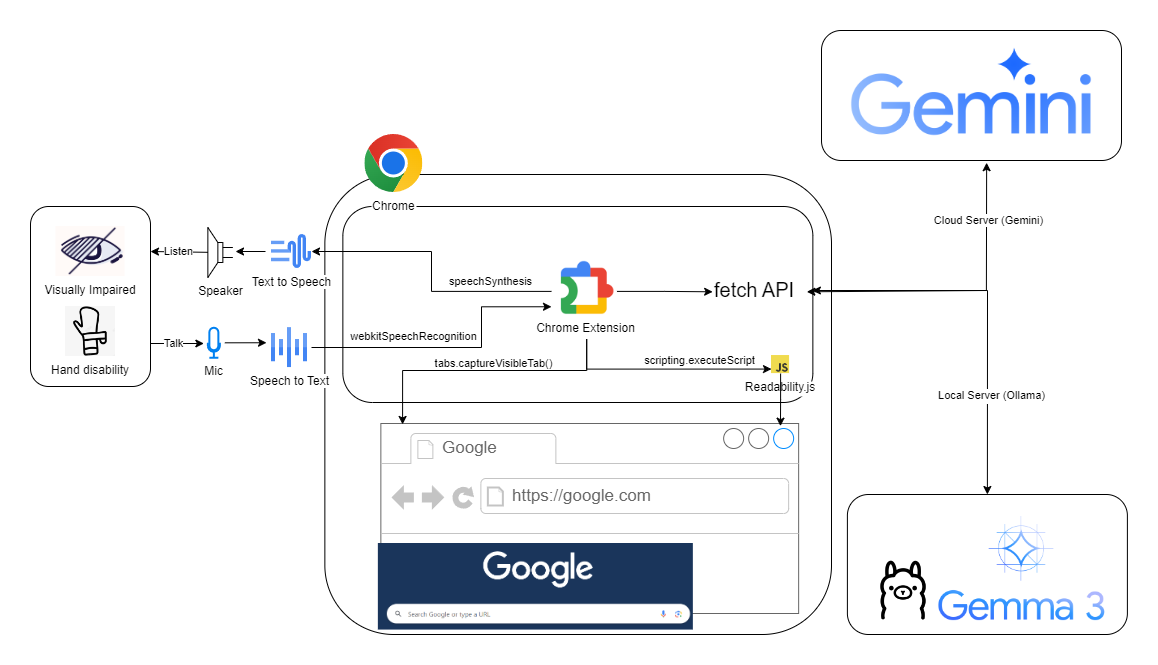
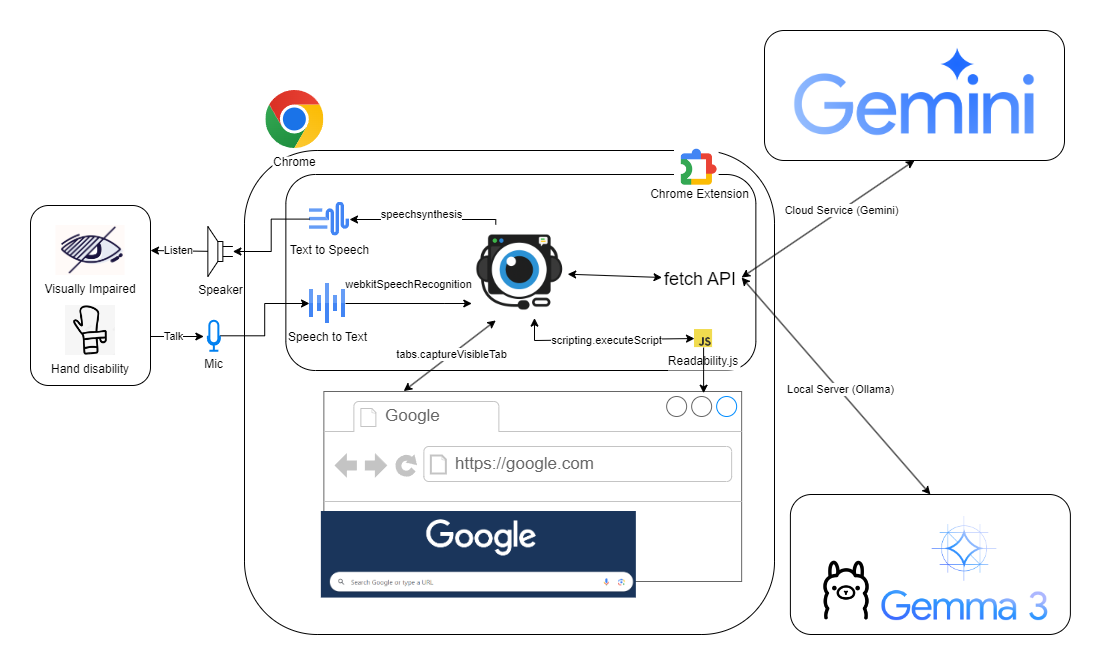
readme and voiceControl update

diff --git a/src/components/voiceControl.js b/src/components/voiceControl.js
@@ -109,6 +109,7 @@ export class VoiceController {
         console.log('Voice input started');
         this.state.input.active = true;
         this.callbacks.updateVoiceInputButtonState?.(true);
+        this.speakText('Voice Input Activated');
         const userInput = document.getElementById('user-input');
         if (userInput) userInput.placeholder = 'Listening...';
         this.state.input.finalTranscript = '';

diff --git a/README.md b/README.md
@@ -16,9 +16,8 @@ A-Eye Web Chat Assistant is a free and open-source Chrome extension. It's design
 ## Table of Contents
 - [Table of Contents](#table-of-contents)
 - [Features](#features)
-- [Architecture](#architecture)
+- [Architecture and Technologies](#architecture-and-technologies)
 - [Installation Guide](#installation-guide)
-  - [Get Extension from GitHub](#get-extension-from-github)
 - [How to Use](#how-to-use)
   - [Setting up Local AI Mode (Ollama)](#setting-up-local-ai-mode-ollama)
   - [Setting up Cloud AI Mode (Gemini API)](#setting-up-cloud-ai-mode-gemini-api)
@@ -31,70 +30,67 @@ A-Eye Web Chat Assistant is a free and open-source Chrome extension. It's design
 ---
 ## Features
 
--   **See the Webpage and Ask**: Take a picture of what you see on the webpage (or the whole page) and ask the AI about it.
--   **Analyze Text Content**: Get the main text of a webpage (like an article) and have the AI summarize it or answer your questions.
--   **Speak to Text**: Talk to the AI with your voice using your microphone.
--   **Text to Speech**: The AI reads its answers to you using your computer's voices.
--   **Two Ways to Use AI**:
-    *   **Local Mode**: Runs AI on your computer (via Ollama) for better privacy. Requires initial setup.
-    *   **Cloud Mode**: Uses powerful online AI (like Google Gemini). Requires your own API key.
+-   **AI Screen Analysis (Visual & Text)**: Instantly analyzes screenshots or full page content using Gemini/Gemma 3.
+-   **Full Voice Control & Q&A**: Operate everything and ask questions about the page using your voice.
+-   **Selectable AI**: Cloud Gemini / Local Gemma 3: One-click switch between powerful cloud AI and private local AI (via Ollama).
 -   **Cross-Platform Compatibility**: Works on Windows, macOS, and Linux computers using the Google Chrome browser.
 
 ---
-## Architecture
+## Architecture and Technologies
 
-(Update Soon)
+**Chrome Extension APIs:**
+`chrome.scripting`: Executing content scripts with Readability.js.
+`chrome.tabs`: Controlling browser tabs, such as opening new tabs and capturing visible tabs (`captureVisibleTab`).
+`chrome.storage`: Using `local` storage to save user settings (API Keys, URLs, Prompts, Voice Settings).
+`chrome.commands`: Handling keyboard shortcuts.
+
+**Web APIs:**
+**Canvas API:** Used to merge multiple screenshots to implement the Scrolling Screenshot feature.
+**Fetch API:** Used to make network requests to backend APIs (Gemini / Ollama).
+**Web Speech API:**
+`SpeechRecognition`: Converting speech to text (STT).
+`SpeechSynthesis`: Converting text to speech (TTS).
+
 
 ![architecture](/images/architecture_v2.png)
 
 ---
 ## Installation Guide
 
-### Get Extension from GitHub
-
 1. Download the ZIP file from this link: 
 [https://github.com/vincentwun/A-Eye-Web-Chat-Assistant/archive/refs/heads/main.zip](https://github.com/vincentwun/A-Eye-Web-Chat-Assistant/archive/refs/heads/main.zip) 
 and unzip it.
-2. Open Chrome, go to `chrome://extensions`, and turn on "Developer mode" in the top right.
-3. Click "Load unpacked" at the top left and select the **src** folder from where you unzipped the file.
+1. Open Chrome, go to `chrome://extensions`, and turn on "Developer mode" in the top right.
+2. Click "Load unpacked" at the top left and select the **src** folder from where you unzipped the file.
 
 ---
 ## How to Use
 
 ### Setting up Local AI Mode (Ollama)
 
-1. Install [Ollama](https://ollama.com/).
-
-2. **Open the command line and run the following command to get Gemma 3** 
-(Command Prompt on Windows, Terminal on Mac/Linux).
-   **You can refer to the table below to get Gemma 3:**
-
-   | Your GPU VRAM | Recommend Size | Command                  |
-   | ------------- | -------------- | ------------------------ |
-   | 6 ~ 8GB       | Gemma 3 4B     | `ollama pull gemma3:4b`  |
-   | > 10GB        | Gemma 3 12B    | `ollama pull gemma3:12b` |
-   | > 20GB        | Gemma 3 27B    | `ollama pull gemma3:27b` |
-
-3.  **Allow the A-eye to communicate with Ollama:**
-    Windows users (cmd):
+1. **Install [Ollama](https://ollama.com/).**
+2. **Enable Ollama CORS** (For Windows users using cmd)
+    Allow Ollama CORS with all Chrome extensions
     ```
     set OLLAMA_ORIGINS='chrome-extension://*'
     ```
-    Linux users:
+    Then run
     ```
-    export OLLAMA_ORIGINS='chrome-extension://*'
+    echo %OLLAMA_ORIGINS%
     ```
-    macOS users:
-    ```
-    launchctl setenv OLLAMA_ORIGINS 'chrome-extension://*'
-    ```
+    to verify, the output should be **'chrome-extension://*'**
 
-4.  **Run Gemma 3**
-    ```
-    ollama run gemma3:4b
-    ```
+3. **Get and Run Gemma 3** 
+   You can refer to the table below to get Gemma 3:
 
-5.  In the extension's **Settings**, make sure "Local Model Name" is `gemma3:4b` (or the model you chose).
+   | GPU VRAM | Recommend Model | Command                  |
+   | ------------- | -------------- | ------------------------ |
+   | <= 8GB       | Gemma 3 4B     | `ollama run gemma3:4b`  |
+   | >= 10GB        | Gemma 3 12B    | `ollama run gemma3:12b` |
+   | >= 20GB        | Gemma 3 27B    | `ollama run gemma3:27b` |
+
+
+4.  In the extension's **Settings**, make sure "Local Model Name" is `gemma3:4b` (or the model you chose).
 
 ### Setting up Cloud AI Mode (Gemini API)
 1. Get your Gemini API Key from [Google AI Studio](https://aistudio.google.com/)
@@ -111,9 +107,9 @@ and unzip it.
 
 ### Analyzing Web Content
 
--   **Capture Visible Area**: Click Camera icon: Sends visible part of the webpage to AI.
--   **Capture Full Page**: Click Scroll icon: Sends the entire webpage (scrolling) to AI.
--   **Analyze Text Content**: Click File icon: Sends the main text of the webpage to AI.
+-   **Capture Visible Area**: Click the Camera icon or activate voice input to say "Take a screenshot."
+-   **Capture Full Page**: Click the Scroll icon or activate voice input to say "Take a scrolling screenshot."
+-   **Analyze Text Content**: Click the File icon or activate voice input to say "Analyze content."
 
 ---
 ## Privacy
